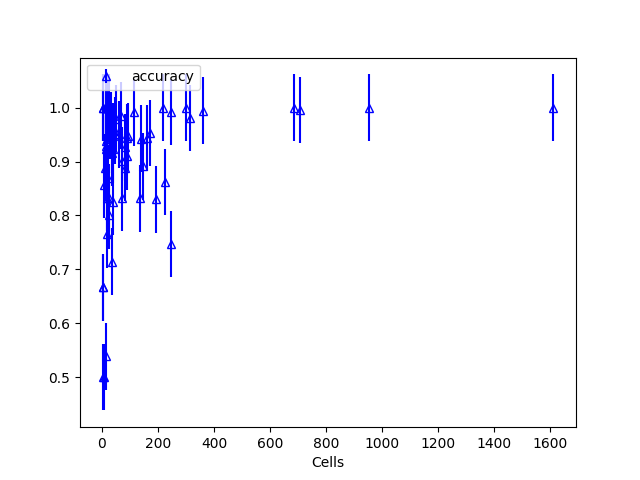
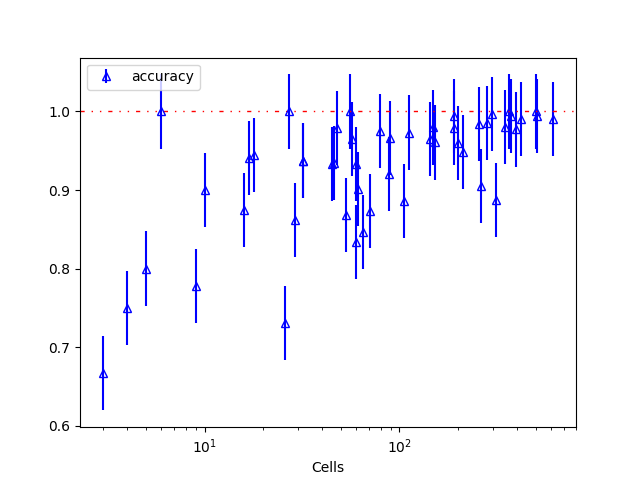
figures with log scale, and began making same figures for multiple lineages

diff --git a/Figure_lineage_number.py b/Figure_lineage_number.py
@@ -18,7 +18,7 @@ from lineage.CellNode import CellNode
 
 
 
-initCells = [1] # there should be around 50 lineages b/c there are 50 initial cells
+experimentTime = 60
 locBern = [0.999]
 cGom = [2]
 scaleGom = [40]
@@ -32,72 +32,73 @@ viterbi = []
 
 lin_length = []
 
-time1 = 60
-time2 = 100
-times = range(time1,time2)
+lineage1 = 1
+lineage2 = 3
+lineages = range(lienage1,lineage2)
 
 accuracy_holder = []
 
-for num in times:
+for num in lineage:
     
-        experimentTime = num
+        initCells = [num]
         X1 = gpt(experimentTime, initCells, locBern, cGom, scaleGom)
         X = remove_NaNs(X1)
         tHMMobj = tHMM(X, numStates=numStates) # build the tHMM class with X
         fit(tHMMobj, verbose=False)
 
-        diag = np.diagonal(tHMMobj.paramlist[0]["T"])
-        chosen_state = np.argmax(diag)
-            
-        bern.append(tHMMobj.paramlist[0]["E"][chosen_state,0])
-        #print("\nRun {} Bernoulli p: {}".format(num, bern[num]))
-        c.append(tHMMobj.paramlist[0]["E"][chosen_state,1])
-        #print("Run {} Gompertz c: {}".format(num, c[num]))
-        scale.append(tHMMobj.paramlist[0]["E"][chosen_state,2])
-        #print("Run {} Gompertz scale: {}".format(num, scale[num]))
-        #print("Run {} Initial Probabilities: ".format(num))
-        #print(tHMMobj.paramlist[0]["pi"])
-        #print("Run {} Transition Matrix: ".format(num))
-        #print(tHMMobj.paramlist[0]["T"])
-        deltas, state_ptrs = get_leaf_deltas(tHMMobj) # gets the deltas matrix
-        get_nonleaf_deltas(tHMMobj, deltas, state_ptrs)
-        v = Viterbi(tHMMobj, deltas, state_ptrs)
-        viterbi.append(v)
-        
-        
-        counts = np.bincount(v[0])
-        maxcount = np.argmax(counts)
-        a = np.zeros((len(v[0])),dtype=int)
-        for i in range(len(v[0])):
-            a[i] = maxcount
-        actual.append(a)
-        
-        #write a holder for all lineages
-        wrong = 0
-        for num in range(tHMMobj.numLineages): # for each lineage in our Population
-            lineage = tHMMobj.population[num] # getting the lineage in the Population by lineage index
-            '''
-            print(v)
-            print(a)
-            print(len(v[0]))
-            print(range(len(lineage)))
-            '''
-            for cell in range(len(lineage)): # for each cell in the lineage
-                if v[0][cell] == a[cell]:
-                    pass
-                    #print(viterbi[cell.index],actual[cell.index])
-                else:
-                    wrong = wrong + 1
-            
-        accuracy = (len(lineage) - wrong)/len(lineage) #must be fixed for more than 1 lineage
-        
-        accuracy_holder.append(accuracy)
-        
-        lin_length.append(len(lineage))
+        for lin in lineages
+            diag = np.diagonal(tHMMobj.paramlist[0]["T"])
+            chosen_state = np.argmax(diag)
+
+            bern.append(tHMMobj.paramlist[0]["E"][chosen_state,0])
+            #print("\nRun {} Bernoulli p: {}".format(num, bern[num]))
+            c.append(tHMMobj.paramlist[0]["E"][chosen_state,1])
+            #print("Run {} Gompertz c: {}".format(num, c[num]))
+            scale.append(tHMMobj.paramlist[0]["E"][chosen_state,2])
+            #print("Run {} Gompertz scale: {}".format(num, scale[num]))
+            #print("Run {} Initial Probabilities: ".format(num))
+            #print(tHMMobj.paramlist[0]["pi"])
+            #print("Run {} Transition Matrix: ".format(num))
+            #print(tHMMobj.paramlist[0]["T"])
+            deltas, state_ptrs = get_leaf_deltas(tHMMobj) # gets the deltas matrix
+            get_nonleaf_deltas(tHMMobj, deltas, state_ptrs)
+            v = Viterbi(tHMMobj, deltas, state_ptrs)
+            viterbi.append(v)
+
+
+            counts = np.bincount(v[0])
+            maxcount = np.argmax(counts)
+            a = np.zeros((len(v[0])),dtype=int)
+            for i in range(len(v[0])):
+                a[i] = maxcount
+            actual.append(a)
+
+            #write a holder for all lineages
+            wrong = 0
+            for num in range(tHMMobj.numLineages): # for each lineage in our Population
+                lineage = tHMMobj.population[num] # getting the lineage in the Population by lineage index
+                '''
+                print(v)
+                print(a)
+                print(len(v[0]))
+                print(range(len(lineage)))
+                '''
+                for cell in range(len(lineage)): # for each cell in the lineage
+                    if v[0][cell] == a[cell]:
+                        pass
+                        #print(viterbi[cell.index],actual[cell.index])
+                    else:
+                        wrong = wrong + 1
+
+            accuracy = (len(lineage) - wrong)/len(lineage) #must be fixed for more than 1 lineage
+
+            accuracy_holder.append(accuracy)
+
+            lin_length.append(len(lineage))
         
 x=np.arange(time1,time2)
 
-
+1=2
 
 #figure 1a - accuracy
 
